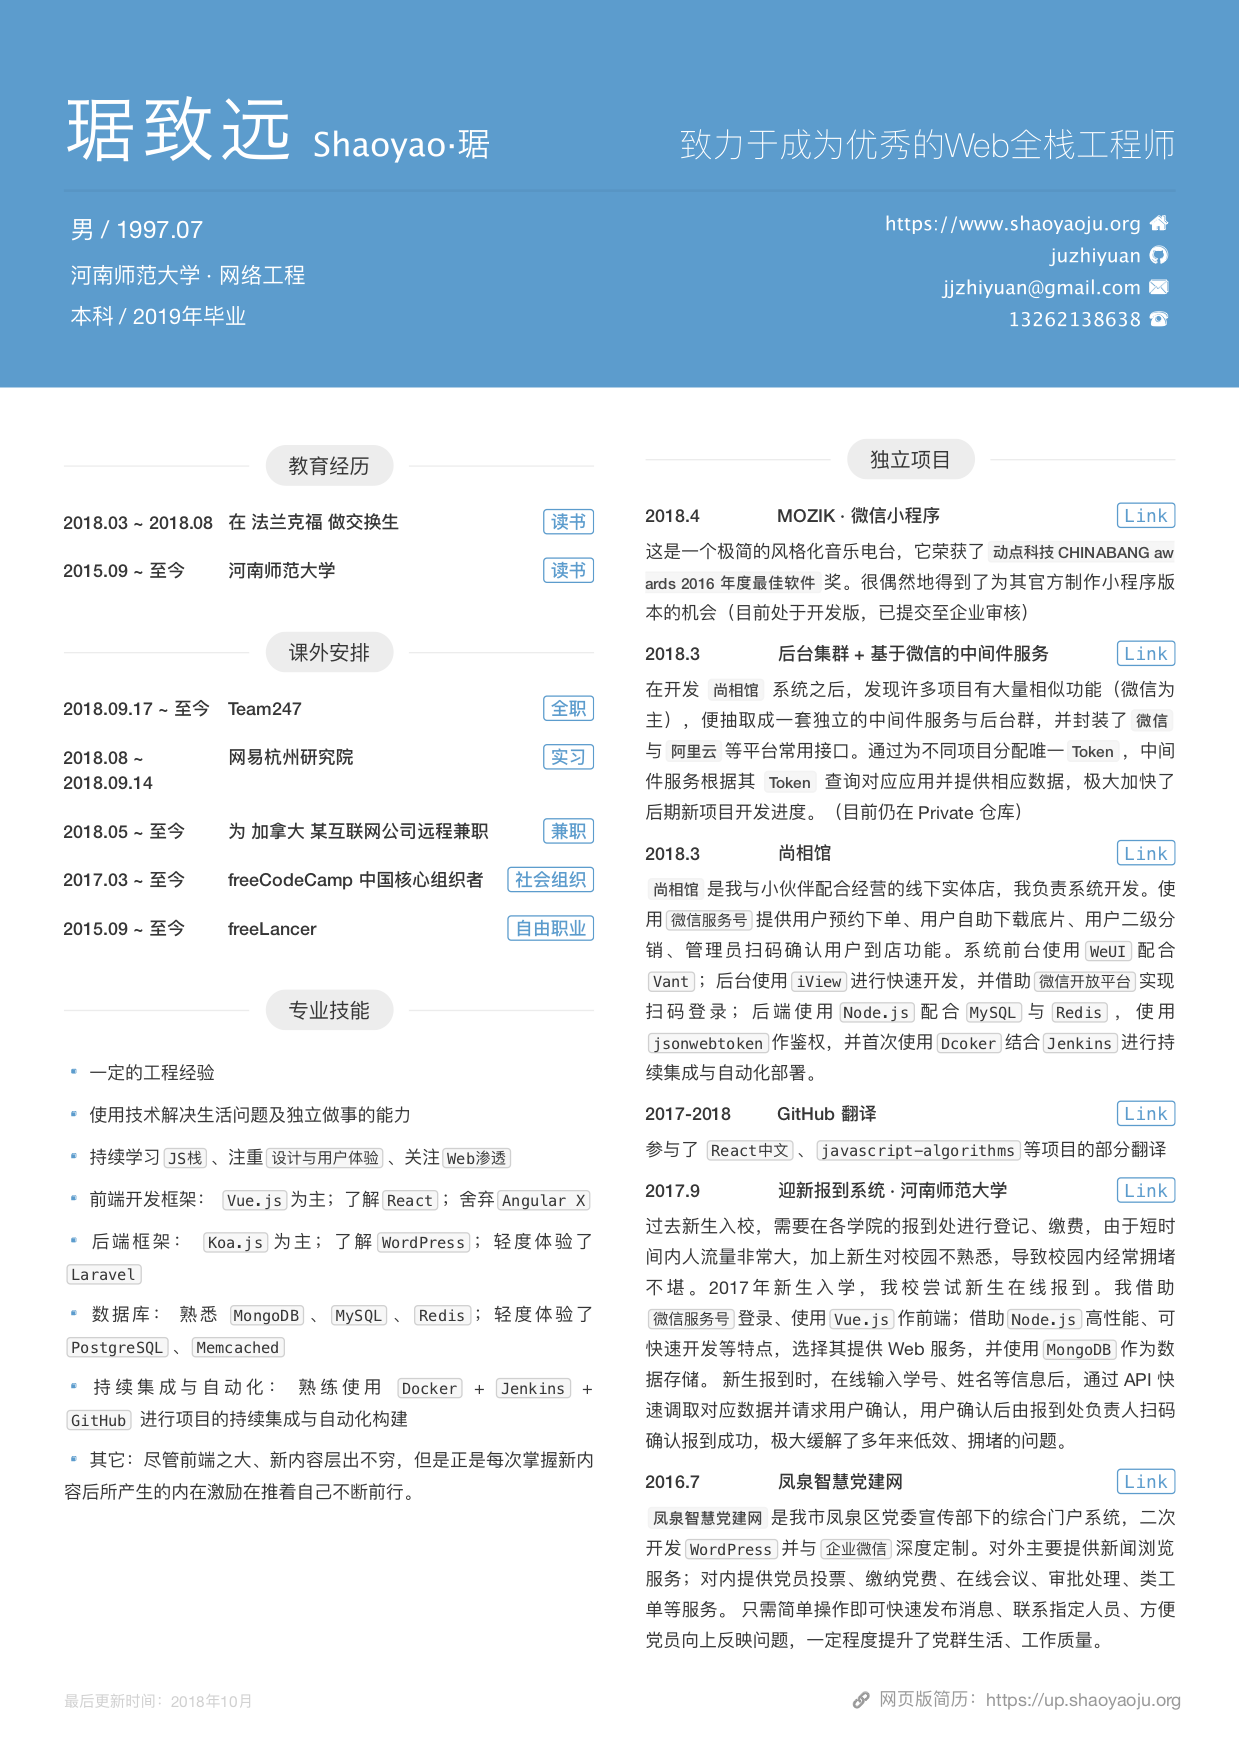
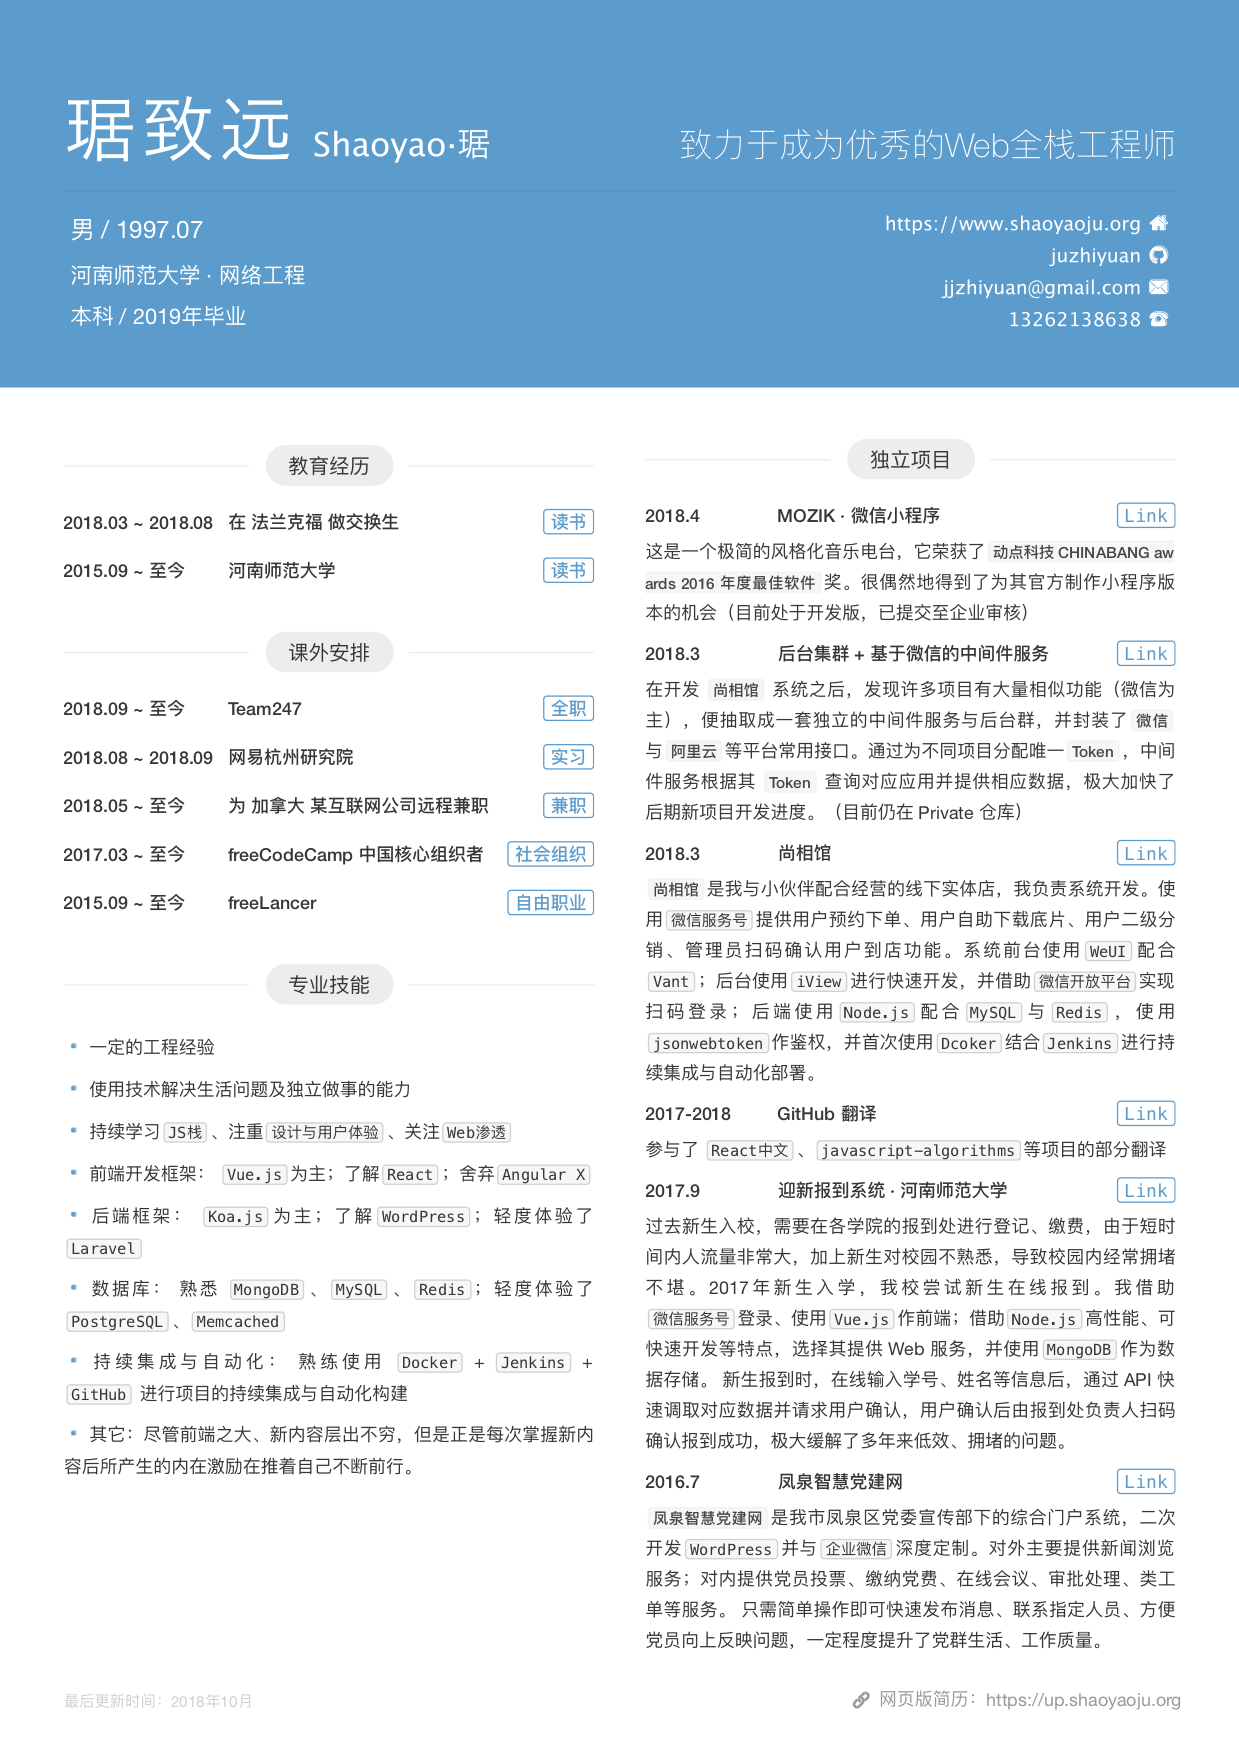
update Team247

Changed region(s): [[0.0307, 0.586, 0.4907, 0.8635], [0.184, 0.4318, 0.4907, 0.586], [0.0307, 0.4009, 0.1533, 0.5551]]

diff --git a/src/index.html b/src/index.html
@@ -70,14 +70,14 @@
                     <div class="section-bd">
                       <div class="item">
                           <header class="item-hd">
-                              <span class="item-time">2018.09.17 ~ 至今</span>
+                              <span class="item-time">2018.09 ~ 至今</span>
                               <a class="btn item-more" href="#" target="_blank">全职</a>
                               <h3 class="item-name">Team247</h3>
                           </header>
                       </div>
                       <div class="item">
                           <header class="item-hd">
-                              <span class="item-time">2018.08 ~ 2018.09.14</span>
+                              <span class="item-time">2018.08 ~ 2018.09</span>
                               <a class="btn item-more" href="#" target="_blank">实习</a>
                               <h3 class="item-name">网易杭州研究院</h3>
                           </header>
